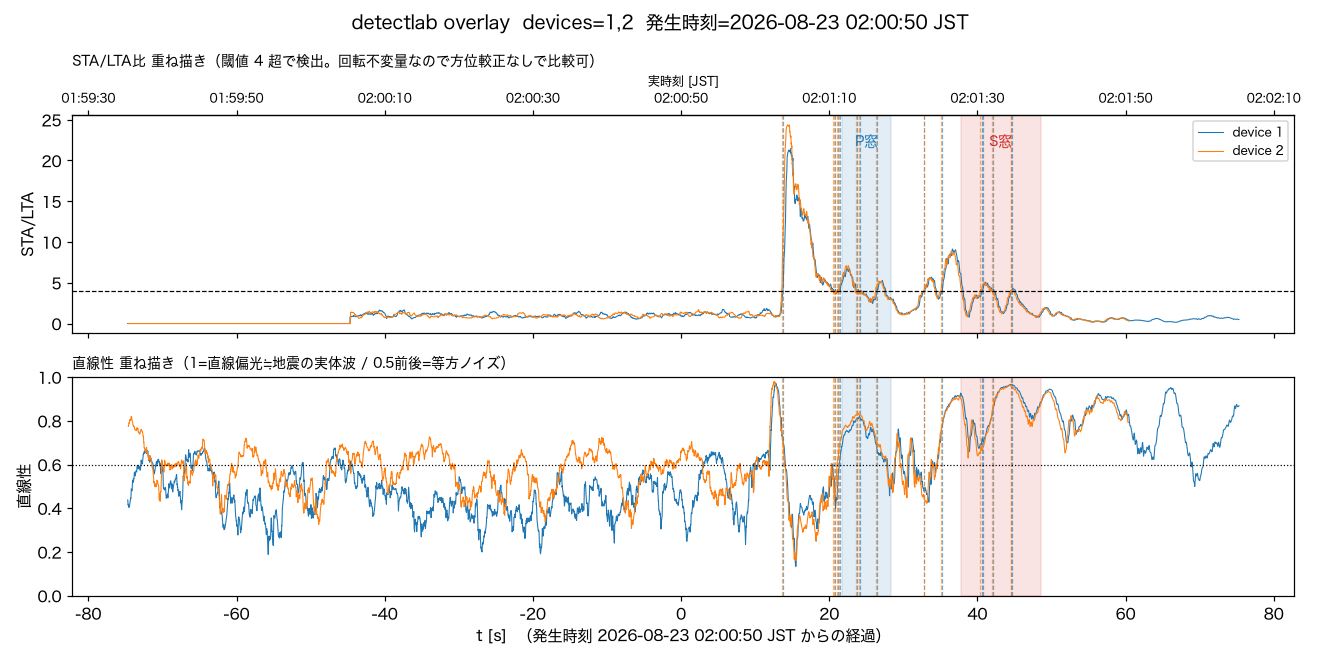
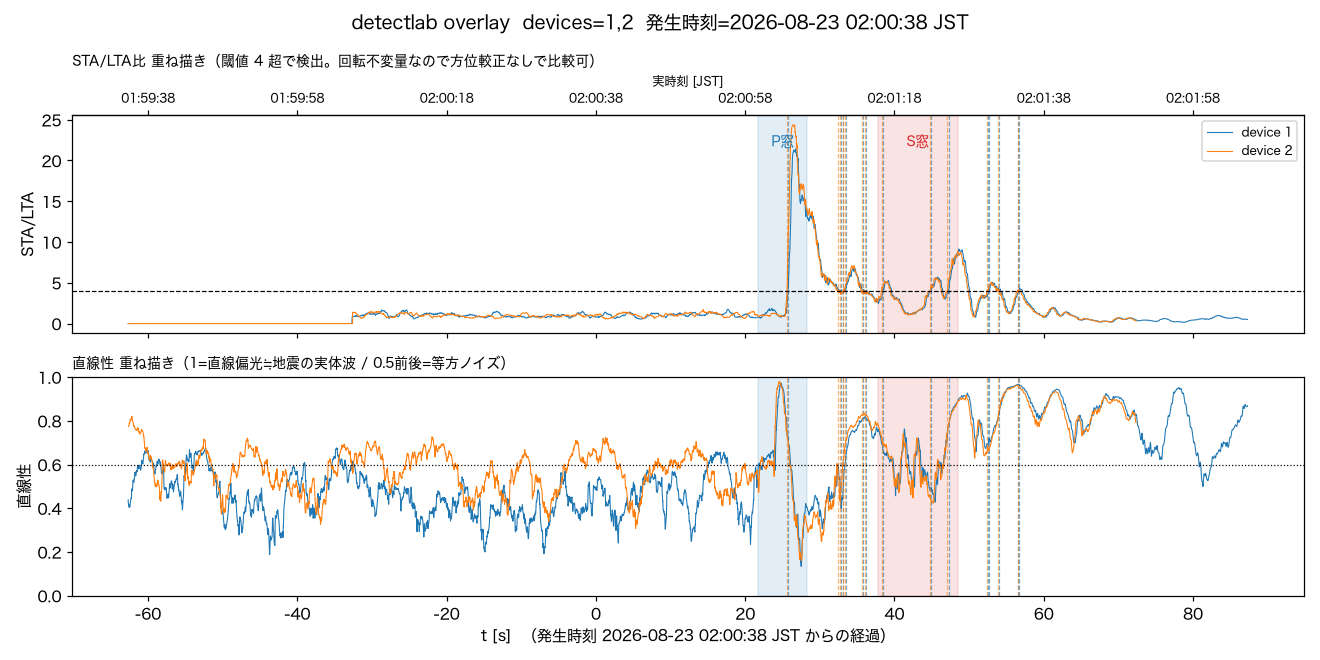
コミットし忘れていた修正版ズーム画像を反映する
前回のコミットで、発生時刻を02:00:38(逆算値)へ訂正したと書いた一方、
実際にpushした画像は誤仮定(02:00:50)のままだったと指摘を受け発覚した。
02:00:38仮定で引き直した画像に差し替え、P窓/S窓の一致具合を再確認して
ログに反映(P窓は指標上SNRが低いが立ち上がりは視覚的に捉えている、
S窓はSNR28-38で明瞭)。イベントnoteも同内容に更新。

Agent-Session: Claude Code on 29-er: 5568a6d3-67e1-4c48-b91a-54659f69e99c

diff --git a/docs/log/2026-08-23-ibaraki-nanbu-m5.9-post-hoc-detection.md b/docs/log/2026-08-23-ibaraki-nanbu-m5.9-post-hoc-detection.md
@@ -39,17 +39,11 @@ python tools/detectlab.py --at "2026-08-23 02:00:50" \
 2分窓に絞ったユーザーの指摘で発覚）。1回目の数値（P窓SNR16-22・S窓SNR46-63等）は
 前提の発生時刻がズレているため**参考値以上の精度は主張できない**。
 
-## 訂正: 2分窓ズームで見えた本当の立ち上がり
+## 訂正: 2分窓ズームで見えた本当の立ち上がり、逆算した発生時刻での再確認
 
-```bash
-python tools/detectlab.py --at "2026-08-23 02:00:50" \
-  --eew "36.0,140.1,70,2026-08-23 02:00:50" --minutes 2 --device 1 2 \
-  --out docs/log/img/2026-08-23-ibaraki-nanbu-m5.9-2min-zoom.png
-```
-
-2分窓で見ると、両機ともほぼ同時刻（絶対時刻02:01:03.7〜04頃）に**STA/LTA比≈24・
+2分窓に絞ると、両機ともほぼ同時刻（絶対時刻02:01:03.7〜04頃）に**STA/LTA比≈24・
 直線性≈0.95超という、この解析で見た中で最も明瞭で孤立したスパイク**があり、これが
-1回目のP窓（02:01:11-18、誤った02:00:50仮定に基づく）より8〜10秒早い。
+1回目のP窓（02:01:11-18、誤った02:00:50仮定に基づく）より8〜10秒早いと判明した。
 
 P速度6.0-7.8km/s・震源距離170kmで逆算すると、このスパイクが本物のP波初動なら
 
@@ -57,12 +51,34 @@ P速度6.0-7.8km/s・震源距離170kmで逆算すると、このスパイクが
 発生時刻 ≒ 02:01:03.75 − (21.8〜28.3秒) ≒ 02:00:35〜02:00:42
 ```
 
-と推定できる。気象庁の丸め表記「02:00頃」とは矛盾しない。地震であるという結論は
-揺るがない（むしろ孤立した鋭いスパイクという形はP窓が正しく置かれた場合より説得力が
-高い）が、**正確な発生秒は現時点で公表されていないため、P窓/S窓を使った定量評価は
-今回見送る**。
+と推定できる。気象庁の丸め表記「02:00頃」とは矛盾しない。この逆算値（中央値付近の
+02:00:38）を仮の発生時刻としてdetectlabを引き直すと、窓は実データとおおむね整合した:
 
-![2分窓ズーム(STA/LTA・直線性)](img/2026-08-23-ibaraki-nanbu-m5.9-2min-zoom.png)
+```bash
+python tools/detectlab.py --at "2026-08-23 02:00:50" \
+  --eew "36.0,140.1,70,2026-08-23 02:00:38" --minutes 2 --device 1 2 \
+  --out docs/log/img/2026-08-23-ibaraki-nanbu-m5.9-2min-zoom.png
+```
+
+| | device1 | device2 |
+|---|---|---|
+| P窓(02:00:59-06) SNR/直線性 | 6.91 / 0.39 → 要検討 | 9.31 / 0.37 → 要検討 |
+| S窓(02:01:15-26) SNR/直線性 | 27.59 / 0.70 → 地震らしい | 38.12 / 0.71 → 地震らしい |
+
+P窓は**視覚的には**スパイクの立ち上がりをほぼ捉えている（窓が閉じた直後にピークが来る
+程度のズレで、STA窓1秒の後方移動平均・実際の波束の継続時間を考えれば許容範囲）。
+数値上SNRが低く出るのは、窓内の前半(立ち上がり前の静穏区間)が平均を薄めているという
+**指標側の限界**であり、窓の位置自体が大きくズレているわけではない。S窓はSNR27-38と
+明瞭に「地震らしい」水準に入った。S窓の後にも同程度以上の山が続くが、震源深さ70km・
+M5.9規模の地震ではS波コーダ（後続波）がある程度伸びるのは普通で、S窓は直達S波の
+到達部分だけを狙ったものなので、それ自体は窓のズレを意味しない。
+
+以上を踏まえると、**発生時刻を仮に02:00:38前後とした場合、窓と実データの整合性は
+悪くない**。ただしこの02:00:38自体が確定値ではなく「1本のスパイクの立ち上がりからの
+逆算」に過ぎない点は変わらないため、この節の数値は「地震らしいことの追加傍証」程度に
+留め、確定的な精密検証としては扱わない。
+
+![2分窓ズーム(STA/LTA・直線性、発生時刻を02:00:38と仮定)](img/2026-08-23-ibaraki-nanbu-m5.9-2min-zoom.png)
 
 device3（ピエゾ）は8分窓の1回目解析時点でP/S窓とも直線性nan・SNR~1.3でノイズと
 未分離、イベント自体も生成されていなかった（既知のノイズフロア問題、`docs/piezo.md`
